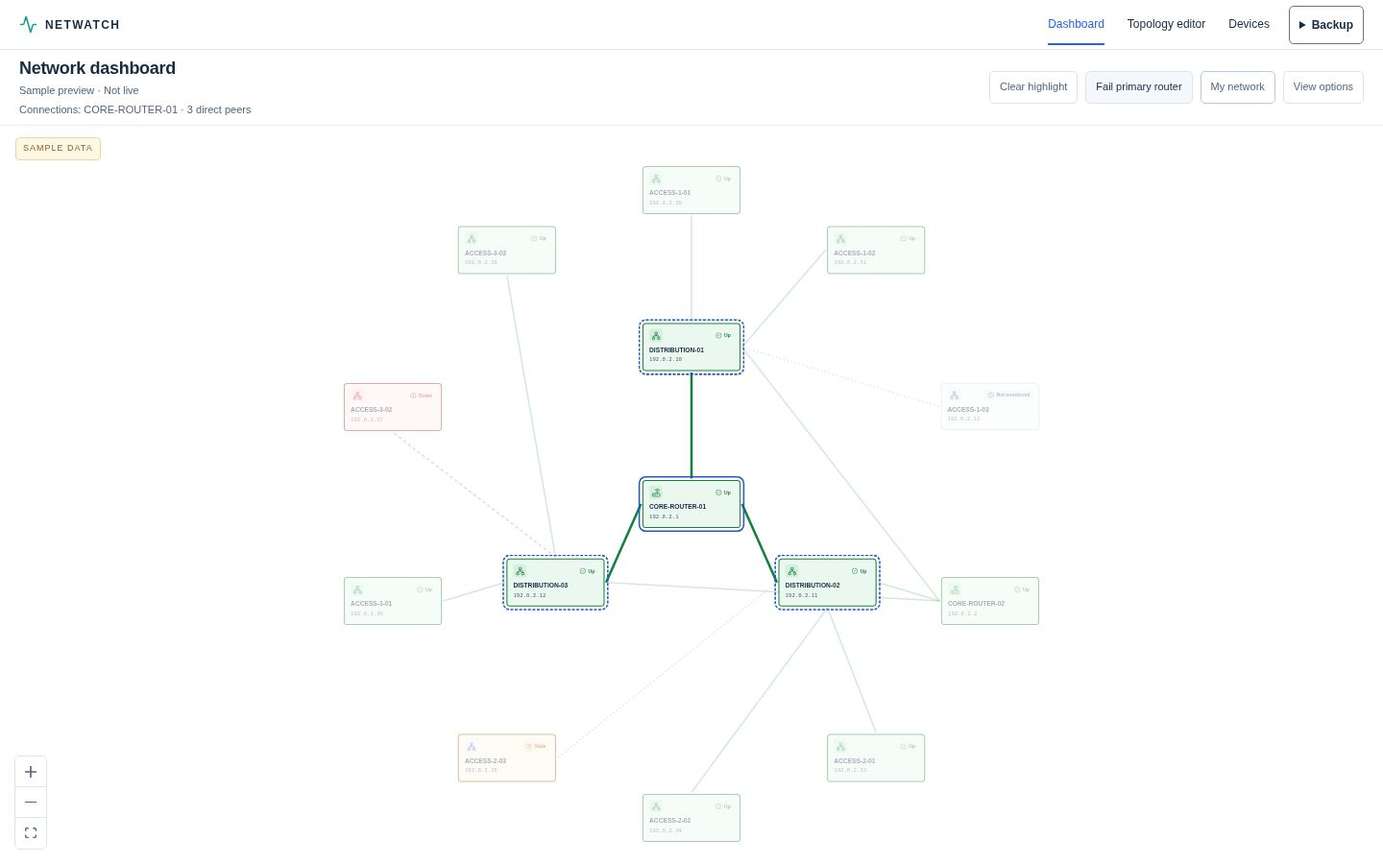
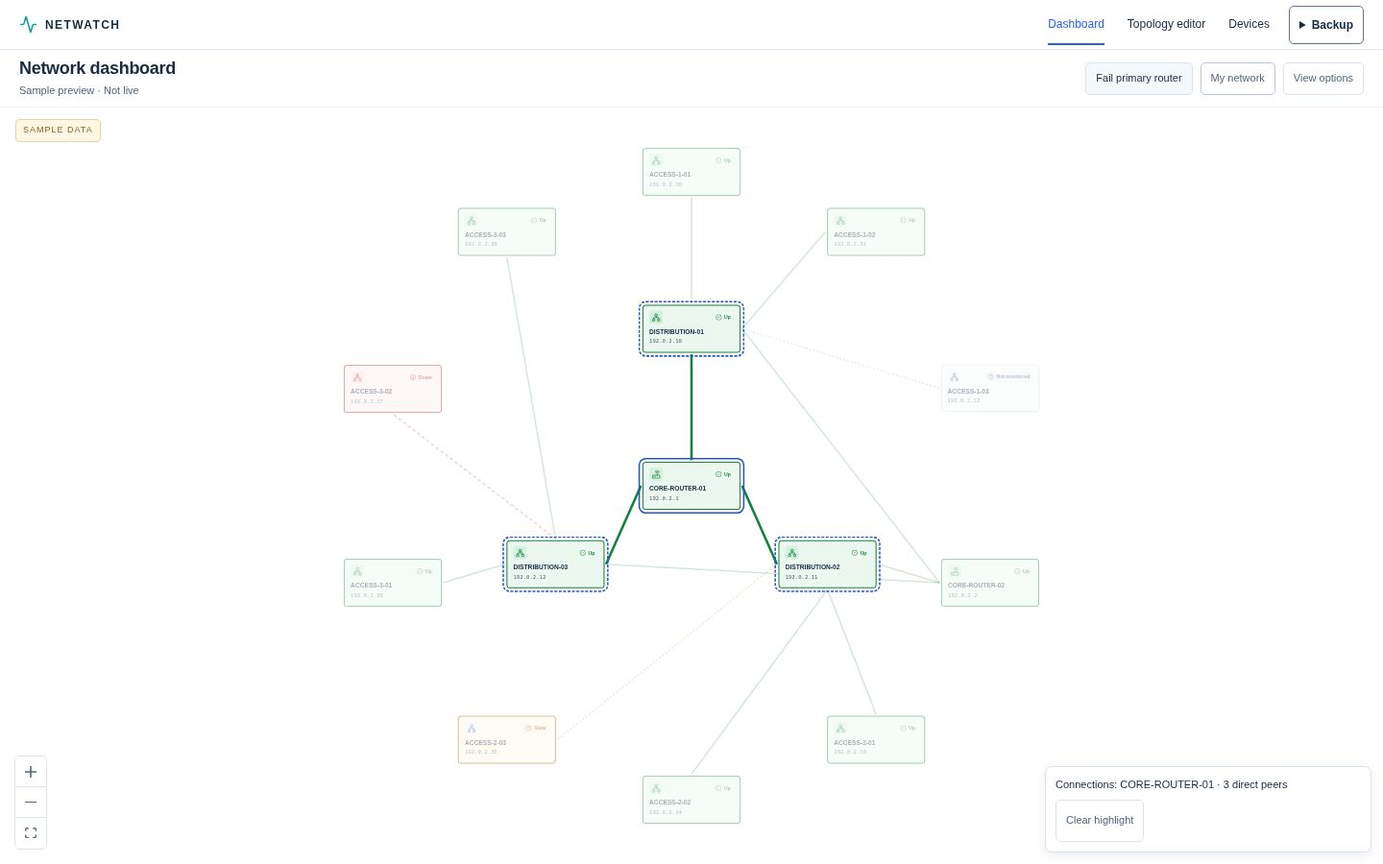
feat: drag dashboard devices and highlight attached connections

diff --git a/src/Dashboard.jsx b/src/Dashboard.jsx
@@ -28,7 +28,7 @@ function HealthNode({ data, selected }) {
 const nodeTypes = { health: HealthNode }
 const NO_CHECKS = {}
 
-export default function Dashboard({ nodes: inventory, edges: inventoryEdges, showInventory = false, onEdit }) {
+export default function Dashboard({ nodes: inventory, edges: inventoryEdges, showInventory = false, onEdit, onMoveDevice }) {
   const [sampleMode, setSampleMode] = useState(false)
   const [sampleRouterDown, setSampleRouterDown] = useState(true)
   const [statusFilter, setStatusFilter] = useState('all')
@@ -38,22 +38,8 @@ export default function Dashboard({ nodes: inventory, edges: inventoryEdges, sho
   const [selectedId, setSelectedId] = useState(null)
   const [highlightedId, setHighlightedId] = useState(null)
   const [nodeSizes, setNodeSizes] = useState({})
-  // Preserve React Flow's measured health-card dimensions across clock/filter
-  // renders. Replacing controlled nodes without them resets initialization.
-  const onNodesChange = useCallback(changes => {
-    const measured = changes.filter(change => change.type === 'dimensions' && change.dimensions)
-    if (!measured.length) return
-    setNodeSizes(previous => {
-      let next = previous
-      for (const change of measured) {
-        const size = change.dimensions
-        if (previous[change.id]?.width !== size.width || previous[change.id]?.height !== size.height) {
-          next = { ...next, [change.id]: size }
-        }
-      }
-      return next
-    })
-  }, [])
+  const [dragState, setDragState] = useState({ source: null, key: '', positions: {} })
+  const [resetKey, setResetKey] = useState(0)
   const [now, setNow] = useState(() => Date.now())
   useEffect(() => {
     if (sampleMode) return
@@ -73,8 +59,32 @@ export default function Dashboard({ nodes: inventory, edges: inventoryEdges, sho
   const { nodes, edges, checks } = sampleMode ? { ...sample, checks: { ...sample.checks, 'core-a': { ...sample.checks['core-a'], status: sampleRouterDown ? 'down' : 'up' } } } : { nodes: inventory, edges: inventoryEdges, checks: NO_CHECKS }
   const effectiveCenterId = nodes.some(node => node.id === centerId) ? centerId : ''
   const layoutNodes = useMemo(() => mapLayout === 'radial' ? radialLayout(nodes, edges, effectiveCenterId) : nodes, [nodes, edges, mapLayout, effectiveCenterId])
+  const layoutKey = `${sampleMode ? 'sample' : 'inventory'}-${mapLayout}-${effectiveCenterId}`
+  const positionOverrides = dragState.source === nodes && dragState.key === layoutKey ? dragState.positions : {}
+  const hasViewPositions = (sampleMode || mapLayout === 'radial') && Object.keys(positionOverrides).length > 0
+  // Preserve React Flow's measured health-card dimensions across clock/filter
+  // renders. Replacing controlled nodes without them resets initialization.
+  const onNodesChange = useCallback(changes => {
+    const measured = changes.filter(change => change.type === 'dimensions' && change.dimensions)
+    const moved = changes.filter(change => change.type === 'position' && change.position && Number.isFinite(change.position.x) && Number.isFinite(change.position.y))
+    if (moved.length) setDragState(previous => {
+      const positions = previous.source === nodes && previous.key === layoutKey ? previous.positions : {}
+      return { source: nodes, key: layoutKey, positions: { ...positions, ...Object.fromEntries(moved.map(change => [change.id, change.position])) } }
+    })
+    if (!measured.length) return
+    setNodeSizes(previous => {
+      let next = previous
+      for (const change of measured) {
+        const size = change.dimensions
+        if (previous[change.id]?.width !== size.width || previous[change.id]?.height !== size.height) {
+          next = { ...next, [change.id]: size }
+        }
+      }
+      return next
+    })
+  }, [nodes, layoutKey])
   const counts = summarizeHealth(nodes, checks, sampleMode ? sampleTime : now)
-  const devices = layoutNodes.map(node => ({ ...node, health: deviceHealth(checks[node.id], sampleMode ? sampleTime : now) }))
+  const devices = layoutNodes.map(node => ({ ...node, position: positionOverrides[node.id] || node.position, health: deviceHealth(checks[node.id], sampleMode ? sampleTime : now) }))
 
   const visible = devices.filter(node => (statusFilter === 'all' || node.health === statusFilter) && `${node.data.label} ${node.data.ip}`.toLowerCase().includes(query.trim().toLowerCase()))
   const visibleIds = new Set(visible.map(node => node.id))
@@ -102,23 +112,31 @@ export default function Dashboard({ nodes: inventory, edges: inventoryEdges, sho
 
   const selectDevice = node => { setHighlightedId(node.id); setSelectedId(node.id) }
 
+  const finishDrag = (_, node) => {
+    if (!sampleMode && mapLayout === 'manual' && onMoveDevice && Number.isFinite(node.position.x) && Number.isFinite(node.position.y)) onMoveDevice(node.id, node.position)
+  }
+  const resetViewPositions = () => {
+    setDragState({ source: null, key: '', positions: {} })
+    setResetKey(value => value + 1)
+  }
+
   const switchSample = () => {
-    setSampleMode(value => !value); setHighlightedId(null); setCenterId(''); setSampleRouterDown(true); setSelectedId(null); setStatusFilter('all'); setQuery('')
+    setDragState({ source: null, key: '', positions: {} }); setSampleMode(value => !value); setHighlightedId(null); setCenterId(''); setSampleRouterDown(true); setSelectedId(null); setStatusFilter('all'); setQuery('')
   }
 
   return <section className={`health-dashboard${showInventory ? ' is-inventory' : ''}`} id={showInventory ? 'inventory-page' : 'dashboard'} aria-label="Network health dashboard">
     <header className="health-page-titlebar">
-      <div><h1>{showInventory ? 'Devices' : 'Network dashboard'}</h1><p role="status">{sampleMode ? 'Sample preview · Not live' : 'Monitoring not connected'}</p>{highlightedDevice && <p className="health-highlight-status" role="status">Connections: {highlightedDevice.data.label} · {connectedIds.size} direct {connectedIds.size === 1 ? 'peer' : 'peers'}</p>}</div>
+      <div><h1>{showInventory ? 'Devices' : 'Network dashboard'}</h1><p role="status">{sampleMode ? 'Sample preview · Not live' : 'Monitoring not connected'}</p>{showInventory && highlightedDevice && <p className="health-highlight-status" role="status">Connections: {highlightedDevice.data.label} · {connectedIds.size} direct {connectedIds.size === 1 ? 'peer' : 'peers'}</p>}</div>
       <div className="health-map-tools">
-        {highlightedDevice && <button className="health-button" aria-label="Clear connection highlight" onClick={() => { setHighlightedId(null); setSelectedId(null) }}>Clear highlight</button>}
+        {showInventory && highlightedDevice && <button className="health-button" aria-label="Clear connection highlight" onClick={() => { setHighlightedId(null); setSelectedId(null) }}>Clear highlight</button>}
         {sampleMode && <button className="health-button" onClick={() => setSampleRouterDown(value => !value)}>{sampleRouterDown ? 'Restore primary router' : 'Fail primary router'}</button>}
         <button className="health-button" aria-label={sampleMode ? 'Return to my network' : 'Preview sample statuses'} aria-pressed={sampleMode} onClick={switchSample}>{sampleMode ? 'My network' : 'Sample preview'}</button>
         <details className="health-view-options"><summary>View options{statusFilter !== 'all' || query ? ' · Filtered' : ''}</summary><div>
-          <label className="health-filter">Map layout <select aria-label="Map layout" value={mapLayout} onChange={event => setMapLayout(event.target.value)}><option value="manual">Saved positions</option><option value="radial">Radial</option></select></label>
-          {mapLayout === 'radial' && <><label className="health-filter">Center <select aria-label="Radial center" value={effectiveCenterId} onChange={event => setCenterId(event.target.value)}><option value="">Automatic</option>{nodes.map(node => <option key={node.id} value={node.id}>{node.data.label}</option>)}</select></label><p className="health-map-count">Display only: saved positions and connections stay unchanged. Automatic centers prefer a connected router; rings follow configured links.</p></>}
+          <label className="health-filter">Map layout <select aria-label="Map layout" value={mapLayout} onChange={event => { setDragState({ source: null, key: '', positions: {} }); setMapLayout(event.target.value) }}><option value="manual">Saved positions</option><option value="radial">Radial</option></select></label>
+          {mapLayout === 'radial' && <><label className="health-filter">Center <select aria-label="Radial center" value={effectiveCenterId} onChange={event => { setDragState({ source: null, key: '', positions: {} }); setCenterId(event.target.value) }}><option value="">Automatic</option>{nodes.map(node => <option key={node.id} value={node.id}>{node.data.label}</option>)}</select></label><p className="health-map-count">Display only: saved positions and connections stay unchanged. Automatic centers prefer a connected router; rings follow configured links.</p></>}
           <label className="health-search"><Search size={15} aria-hidden="true"/><input aria-label="Search dashboard devices" value={query} onChange={event => setQuery(event.target.value)} placeholder="Search name or IP"/></label>
           <label className="health-filter">Status <select aria-label="Device status filter" value={statusFilter} onChange={event => setStatusFilter(event.target.value)}><option value="all">All devices ({counts.all})</option>{Object.entries(HEALTH).map(([key, value]) => <option key={key} value={key}>{value.label} ({counts[key]})</option>)}</select></label>
-          <p className="health-map-count">{visible.length} of {nodes.length} devices</p><p className="health-map-count">Fit view shows the whole map. Zoom in or open Devices to read labels. Click a device to highlight its direct connections; close the popup to explore the highlight.</p><p className="health-map-count">Path colors summarize device reachability, not verified interface state.</p>
+          <p className="health-map-count">{visible.length} of {nodes.length} devices</p><p className="health-map-count">Drag a device to move it and highlight its direct connections. Saved-layout drags autosave; radial and sample adjustments stay in this view. Click or press Enter for details.</p><p className="health-map-count">Path colors summarize device reachability, not verified interface state.</p>
         </div></details>
       </div>
     </header>
@@ -128,15 +146,21 @@ export default function Dashboard({ nodes: inventory, edges: inventoryEdges, sho
     </section>
     ) : (
         <div className="health-map">
-          <ReactFlow key={`${sampleMode ? 'sample' : 'inventory'}-${mapLayout}-${effectiveCenterId}`} onNodesChange={onNodesChange}
+          <ReactFlow key={`${layoutKey}-${resetKey}`} onNodesChange={onNodesChange}
             nodes={devices.map(node => ({ ...node, measured: nodeSizes[node.id], type: 'health', ariaRole: 'button', domAttributes: { 'aria-haspopup': 'dialog', onKeyDown: event => { if (event.key === 'Enter' || event.key === ' ') { event.preventDefault(); event.stopPropagation(); selectDevice(node) } } }, hidden: !visibleIds.has(node.id), selected: selectedId === node.id, ariaLabel: `${node.data.label}, ${HEALTH[node.health].label}.${highlightedDevice ? node.id === highlightedId ? ' Connection focus.' : connectedIds.has(node.id) ? ` Directly connected to ${highlightedDevice.data.label}.` : '' : ''} Open device details`, data: { ...node.data, kind: node.type, status: node.health, radial: mapLayout === 'radial', connectionRole: highlightedDevice ? node.id === highlightedId ? 'focus' : connectedIds.has(node.id) ? 'connected' : 'muted' : '' } }))}
             edges={mapEdges}
             nodeTypes={nodeTypes} onNodeClick={(_, node) => selectDevice(node)} onPaneClick={() => { setSelectedId(null); setHighlightedId(null) }}
-            nodesDraggable={false} nodesConnectable={false} edgesFocusable={false} deleteKeyCode={null}
+            nodesDraggable nodesConnectable={false} multiSelectionKeyCode={null} nodeDragThreshold={3} nodeClickDistance={5}
+            onNodeDragStart={(_, node) => { setHighlightedId(node.id); setSelectedId(null) }} onNodeDragStop={finishDrag} edgesFocusable={false} deleteKeyCode={null}
             fitView fitViewOptions={{ padding: 0.12 }} minZoom={mapLayout === 'radial' ? 0.0001 : 0.05} maxZoom={1.6} proOptions={{ hideAttribution: true }}>
             <Controls showInteractive={false}/>
           </ReactFlow>
           {!visible.length && <div className="health-empty-map"><Search size={25} aria-hidden="true"/><strong>{nodes.length ? 'No matching devices' : 'Your network map starts here'}</strong><p>{nodes.length ? 'Try another name or status filter.' : 'Add your first router or switch in the topology editor.'}</p><button className="health-button" onClick={nodes.length ? () => { setQuery(''); setStatusFilter('all') } : onEdit}>{nodes.length ? 'Clear filters' : 'Open topology editor'}</button></div>}
+          {(highlightedDevice || hasViewPositions) && <div className="health-map-focus-controls nodrag nopan">
+            {highlightedDevice && <p className="health-highlight-status" role="status">Connections: {highlightedDevice.data.label} · {connectedIds.size} direct {connectedIds.size === 1 ? 'peer' : 'peers'}</p>}
+            {highlightedDevice && <button className="health-button" aria-label="Clear connection highlight" onClick={() => { setHighlightedId(null); setSelectedId(null) }}>Clear highlight</button>}
+            {hasViewPositions && <button className="health-button" aria-label="Reset view positions" onClick={resetViewPositions}>{mapLayout === 'radial' ? 'Reset radial positions' : 'Reset sample positions'}</button>}
+          </div>}
           {sampleMode && <span className="health-sample-watermark">SAMPLE DATA</span>}
         </div>
     )}

diff --git a/src/App.jsx b/src/App.jsx
@@ -176,7 +176,7 @@ export default function App() {
         </section>
         </header>
 
-        {view !== 'editor' ? <Dashboard nodes={nodes} edges={edges} showInventory={view === 'inventory'} onEdit={() => setView('editor')}/> : <section className="page-content" id="topology">
+        {view !== 'editor' ? <Dashboard nodes={nodes} edges={edges} showInventory={view === 'inventory'} onMoveDevice={(id, position) => setNodes(current => current.map(node => node.id === id ? { ...node, position } : node))} onEdit={() => setView('editor')}/> : <section className="page-content" id="topology">
           <div className="page-heading">
             <div><div className="eyebrow">NETWORK MANAGEMENT / PHASE 01</div><h1>Topology builder</h1><p>Map your infrastructure first. Monitoring will be connected in the next phase.</p></div>
             <div className="heading-actions"><button className="button secondary" disabled={importBusy} onClick={() => importInput.current.click()}>Import JSON</button><button className="button secondary" onClick={exportTopology}><Download size={16}/> Export JSON</button><button className="button primary" onClick={() => setShowModal('add')}><Plus size={17}/> Add device</button></div>

diff --git a/src/dashboard.css b/src/dashboard.css
@@ -36,3 +36,6 @@
 .health-node-muted{opacity:.38}
 .health-inventory tr.is-connected{background:#edf3ff}
 .health-highlight-status{max-width:440px;overflow-wrap:anywhere}
+.health-map-focus-controls{position:absolute;right:12px;bottom:12px;z-index:6;max-width:min(340px,calc(100% - 76px));padding:10px;background:#fffffff5;border:1px solid var(--health-border);border-radius:7px;box-shadow:0 3px 12px #172b4314;display:flex;flex-wrap:wrap;gap:8px}
+.health-map-focus-controls .health-highlight-status{width:100%;margin:0;font-size:11px;color:var(--health-text)}
+.health-map-focus-controls .health-button{min-height:44px}

diff --git a/README.md b/README.md
@@ -1,6 +1,6 @@
 # NetWatch — Network health dashboard
 
-A local-first network operations dashboard with a supporting topology editor. The dashboard shows inventory, health filters, a read-only map, endpoint-colored connection paths, and click-to-open device details. A labelled sample preview illustrates up/down states. It does **not** ping devices, monitor BGP, or perform SNMP discovery yet.
+A local-first network operations dashboard with a supporting topology editor. The dashboard shows inventory, health filters, an interactive map, endpoint-colored connection paths, and click-to-open device details. A labelled sample preview illustrates up/down states. It does **not** ping devices, monitor BGP, or perform SNMP discovery yet.
 
 ## Requirements
 - Windows 10/11
@@ -129,7 +129,7 @@ With preview running, `node scripts/check-recovery-browser.mjs` runs optional re
 
 ## Larger-map checks
 
-The dashboard defaults to the full network map. Fit view can zoom out far enough for the tested 100-device/180-link fixture on desktop and narrow screens. At overview scale, use zoom, search plus Fit view, or Devices to read individual labels. Manual node positions stay unchanged.
+The dashboard defaults to the full network map. Fit view can zoom out far enough for the tested 100-device/180-link fixture on desktop and narrow screens. At overview scale, use zoom, search plus Fit view, or Devices to read individual labels. Fit/zoom leave manual node positions unchanged.
 
 See [scale validation](docs/SCALE-VALIDATION.md) for fixture/browser commands, timings, screenshots and measured limits. `scripts/check-scale-browser.mjs` is an optional development-server QA check; it injects synthetic sample checks only into isolated test browsers. It does not enable real monitoring or establish production capacity.
 
@@ -137,8 +137,17 @@ See [scale validation](docs/SCALE-VALIDATION.md) for fixture/browser commands, t
 
 In **View options → Map layout**, choose **Radial** to show connected devices in concentric graph-distance rings. Automatic centers prefer the router with the most connected peers (or the most connected device if there is no router). Use **Radial center** to choose a device; other disconnected groups keep their own automatic centers. Switch to **Saved positions** to restore the original arrangement exactly.
 
-Radial layout changes only the read-only dashboard display. It preserves IDs, configured links, health, manual positions, backups and editor data. The map refits after layout/center changes. Filters hide matching devices/links without rearranging the full radial layout. Dense meshes may still have crossing links and tiny overview labels; zoom or use Devices for detail. Layout preference is temporary for the current dashboard session, with saved positions remaining the default after reload or an editor round-trip.
+Radial layout changes only the dashboard display. It preserves IDs, configured links, health, manual positions, backups and editor data. The map refits after layout/center changes. Filters hide matching devices/links without rearranging the full radial layout. Dense meshes may still have crossing links and tiny overview labels; zoom or use Devices for detail. Layout preference is temporary for the current dashboard session, with saved positions remaining the default after reload or an editor round-trip.
 
-Click a map device, press Enter/Space on it, or use **Inspect** in Devices to highlight its directly connected peers. The focus device gets a solid blue outline, peers get dashed blue outlines, and incident links are emphasized; other items are subdued. Device/path health colors stay unchanged. Close the details popup to explore the highlight. Use **Clear highlight** or click the canvas background to clear it. Incoming and outgoing configured links both count; indirect/transitive neighbors are not highlighted. Filters still apply, and selecting an isolated device shows zero direct peers.
+Click a map device, press Enter/Space on it, or use **Inspect** in Devices to highlight its directly connected peers. The focus device gets a solid blue outline, peers get dashed blue outlines, and incident links are emphasized; other items are subdued. Device/path health colors stay unchanged. Close the details popup to explore the highlight. Use **Clear highlight** or click the canvas background to clear it. You can also drag a device to move it and highlight its peers without opening a popup. Incoming and outgoing configured links both count; indirect/transitive neighbors are not highlighted. Filters still apply, and selecting an isolated device shows zero direct peers.
 
 `node scripts/check-radial-browser.mjs` runs the optional radial/highlight browser checks with the same external Playwright configuration as the other checks. It includes manual-position restoration, custom centers, storage/sample isolation, keyboard inspection, short-screen controls, and a 101-device/180-link graph with an isolated device. No dependency or persisted-schema change is needed.
+
+## Drag devices directly on the dashboard
+
+Drag an individual router or switch to reposition it. Its direct incoming/outgoing peers and attached configured links highlight immediately, and those lines follow the device while it moves. Neighboring devices stay in place. Releasing a drag leaves the highlight visible without opening a details popup; click or press Enter/Space for details as before.
+
+- **Saved positions, your network:** releasing a drag updates that device's saved position through the existing autosave and recovery rules. Changes survive reload and appear in the editor/export. A failed save keeps the moved in-memory map available for export and shows the normal warning; unreadable original content remains protected while autosave is paused.
+- **Radial layout or sample preview:** movement adjusts only the current view. **Reset radial positions** / **Reset sample positions** restores the generated arrangement and refits it. Changing layout, center or sample mode clears temporary adjustments. Saved manual geometry and sample isolation are preserved.
+
+Clear highlight and reset controls sit over the map so selecting/dragging does not resize the canvas. Only existing configured connections are emphasized; the app does not discover or verify physical switch-port state. Connections/ports can still be edited through the topology editor. Optional `scripts/check-dashboard-drag-browser.mjs` tests drag/highlight, line following, independent-node movement, persistence/reload, radial/sample reset, narrow screens and failed-save preservation.

diff --git a/docs/ARCHITECTURE.md b/docs/ARCHITECTURE.md
@@ -2,7 +2,7 @@
 
 ## Implemented foundation
 
-React + Vite opens the network health dashboard by default. `src/Dashboard.jsx` renders a viewport-filling read-only React Flow map with title/status, optional View controls, and click-to-open detail dialogs. App.jsx provides horizontal Dashboard/Topology editor/Devices navigation; the supporting device table is shown only for the Devices view. The existing topology canvas remains available through Edit topology. Router and switch components share the topology data contract. `src/topology.js` validates imported and saved maps and strips untrusted rendering properties. The browser stores a versioned topology; export/import is the portability boundary. Valid v1 exports remain readable; invalid or duplicate management addresses are rejected without replacement (see README recovery guidance).
+React + Vite opens the network health dashboard by default. `src/Dashboard.jsx` renders a viewport-filling interactive React Flow map with title/status, optional View controls, and click-to-open detail dialogs. App.jsx provides horizontal Dashboard/Topology editor/Devices navigation; the supporting device table is shown only for the Devices view. The existing topology canvas remains available through Edit topology. Router and switch components share the topology data contract. `src/topology.js` validates imported and saved maps and strips untrusted rendering properties. The browser stores a versioned topology; export/import is the portability boundary. Valid v1 exports remain readable; invalid or duplicate management addresses are rejected without replacement (see README recovery guidance).
 
 The system has no active probes, backend, authentication, or live status. Example addresses are inventory placeholders. Management addresses are validated as IPv4/IPv6 literals (or empty), with canonical IPv6 comparison and duplicate rejection. Backend address validation remains mandatory before any probes exist.
 
@@ -49,6 +49,12 @@ Dashboard health-card dimensions are maintained separately from inventory, using
 
 ## Optional radial view and connected-device focus
 
-`src/radial.js` computes display-only positions from the complete graph before filtering. Links are treated as undirected only for BFS levels; stored direction and endpoint-health policy do not change. Each component chooses an explicit center if present, otherwise a most-connected router, then a most-connected device, with stable ID tie-breaking. Rings expand for card spacing; disconnected components are packed separately without invented links. Position generation is deterministic, cycle-safe and independent of health/input ordering. Straight radial links use facing side handles. Manual positions remain the default, and layout/center changes remount/refit the read-only graph without persisting layout output.
+`src/radial.js` computes display-only positions from the complete graph before filtering. Links are treated as undirected only for BFS levels; stored direction and endpoint-health policy do not change. Each component chooses an explicit center if present, otherwise a most-connected router, then a most-connected device, with stable ID tie-breaking. Rings expand for card spacing; disconnected components are packed separately without invented links. Position generation is deterministic, cycle-safe and independent of health/input ordering. Straight radial links use facing side handles. Manual positions remain the default, and layout/center changes remount/refit the graph without persisting layout output.
 
 The same module derives direct peers from incoming/outgoing configured links. Dashboard retains a separate highlight ID after the details popup closes. A solid blue focus outline, dashed peer outlines, thicker incident paths and subdued unrelated items are view state only; status colors, source inventory and filters are preserved. Canvas click, Clear highlight or sample switching clears the focus. Popup keyboard/focus handling is unchanged. View options scrolls on short screens so the additional controls remain reachable.
+
+## Dashboard drag behavior
+
+Dashboard accepts React Flow position changes into view-local overrides, scoped by the source-node reference and layout/center key. This lets controlled nodes and their edges update during drag without writing storage on every pointer event. Drag start sets the direct-peer highlight and closes detail state; click-distance/drag thresholds keep release separate from click-to-inspect. Single-device dragging is enabled without multi-selection dragging or connection creation.
+
+At drag stop, real inventory in Saved positions calls App's position-update callback; App's existing validation/autosave/pause/warning flow owns persistence. Radial and sample changes stay local and can be reset/refitted. Layout/center/sample transitions clear those overrides, and importing a new source invalidates old overrides. IDs, edge endpoints/handles and device fields are untouched. Focus/reset controls are an overlay to keep the canvas geometry stable during gestures.

diff --git a/docs/WORKLOG.md b/docs/WORKLOG.md
@@ -119,3 +119,13 @@ A fresh Node 22 install, fourteen tests and build passed during review. The firs
 - Evidence images: radial-desktop.jpg, radial-narrow.jpg, radial-highlight-desktop.jpg, radial-highlight-narrow.jpg, radial-controls-narrow.jpg and radial-101-narrow.jpg. Large radial overviews can make labels tiny and links can cross; zoom/search/Devices remain necessary. No hardware, monitoring or full screen-reader claims.
 - #24 remains open until PR review/merge. Next monitoring milestone remains host API/storage #4.
 - Final checks: Node 22.23.5 tests/build and radial, topology, recovery, inventory and 100-device scale browser suites pass. Scale count assertions now target the status selector explicitly because View options also contains layout/center selectors.
+
+
+## Dashboard individual dragging follow-up — #24 / PR #25 (2026-11-12)
+
+- Enabled free individual node dragging in the dashboard. Position overrides render during movement; direct peers/incident paths highlight from drag start and links follow the moved device. Neighbor positions do not change, and drag release does not open a detail popup. Click/keyboard inspection remains available.
+- Real Saved positions persist at drag stop through App's existing autosave/recovery flow, with reload/editor/export compatibility. Radial and sample moves remain view-only, with explicit Reset/refit. Source/layout/center/sample changes invalidate or clear temporary geometry. No IDs, fields, edge endpoints/handles or health policy change.
+- Moved map focus/reset controls into an overlay, preserving canvas geometry during interaction. Added scripts/check-dashboard-drag-browser.mjs for mid-drag highlights/path geometry, individual movement, no drag popup, manual persistence/reload, radial/sample isolation/reset, narrow gestures and quota failure preserving the previous save and moved in-memory graph.
+- A narrow browser gesture after resize initially started before Fit view completed. The test now waits for resize observation and fully fitted node bounds before dragging; no timing logs remain in application code.
+- Screenshots: dashboard-drag-saved.jpg, dashboard-drag-radial.jpg and dashboard-drag-narrow.jpg. Highlighting refers to configured incident links, not verified hardware port state. Full hardware/touch-device/screen-reader testing is not claimed.
+- Final verification: Node 22.23.5 passes all 21 tests and production build; dashboard-drag, radial, topology, recovery, inventory and 100-device scale browser checks pass. The scale QA server was restarted after a connection-refused setup failure; the rerun passed. Commit/push requested on the existing feat/radial-map branch.

diff --git a/docs/DESIGN.md b/docs/DESIGN.md
@@ -16,3 +16,5 @@ Validate at desktop and narrow widths. Check search, each status filter, selecti
 
 - View options can switch between saved positions and a temporary radial layout, with an optional center device. Keep the default full-map workspace and manual editor positions intact.
 - Selecting a device highlights direct peers and incident paths in either layout. Use blue solid/dashed outlines to distinguish focus/peers without replacing green/red/amber/gray health colors. Keep an explicit Clear highlight control and a textual direct-peer count; do not imply transitive connectivity or live interface verification.
+
+- Allow individual dashboard devices to be dragged, highlighting direct peers and attached links from drag start. Do not open a popup on drag release. Keep focus/reset controls over the map so they do not shift the canvas during a gesture. Saved-layout moves autosave; radial/sample moves are temporary and explicitly resettable.
